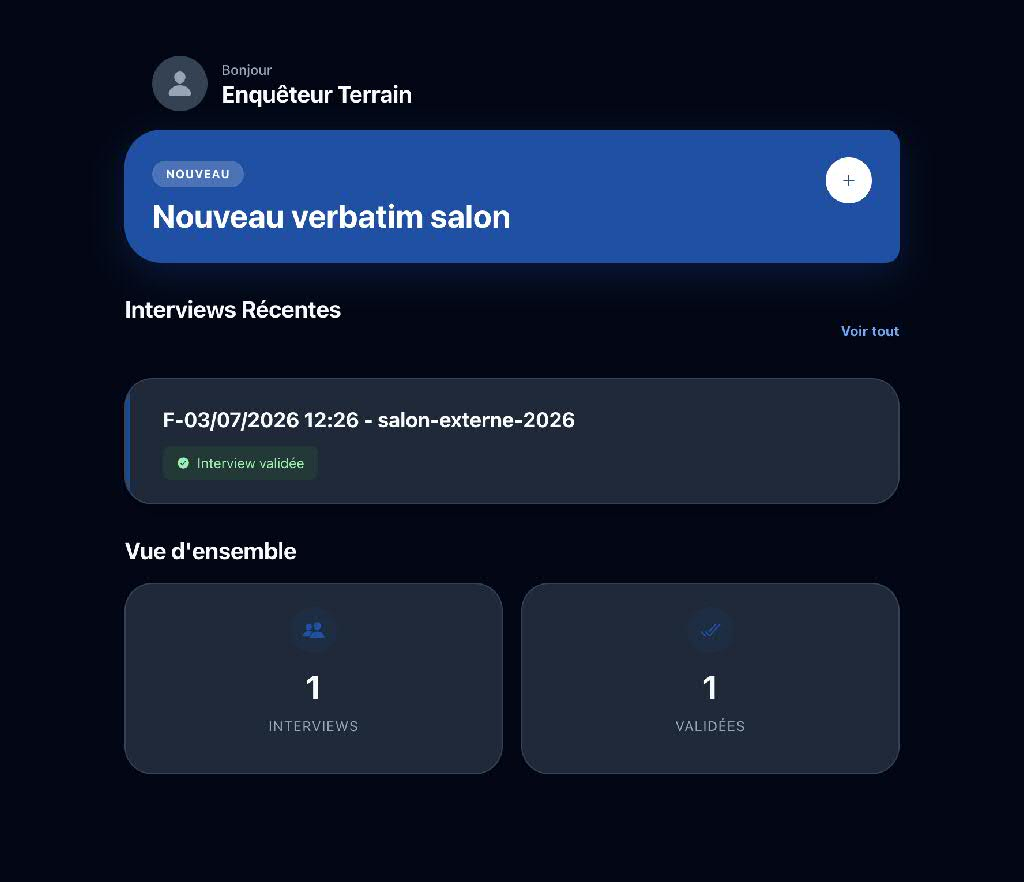
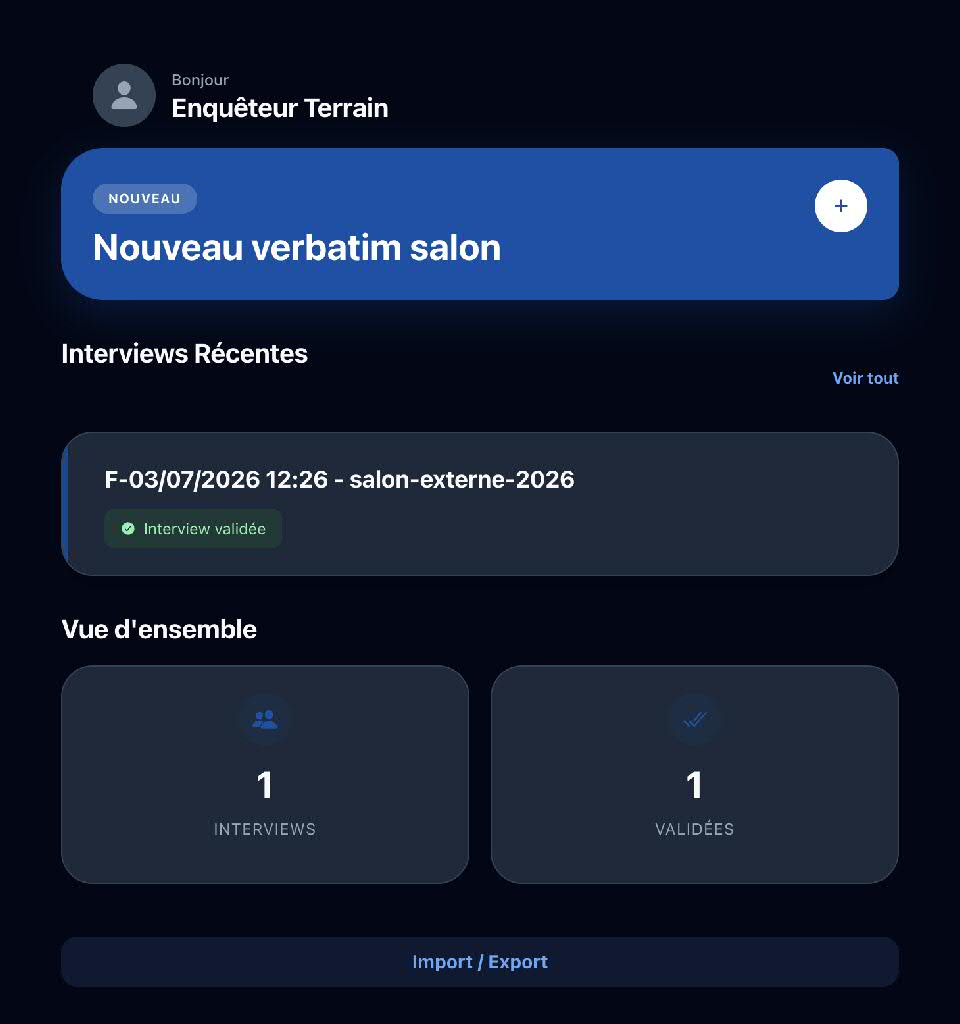
chore: sync docs Studio, connecteur FullSync et vignette projet

diff --git a/project.md b/project.md
@@ -31,12 +31,12 @@ Placeholder transaction that intentionally cancels execution
 </p></blockquote></details>
 </p></blockquote></details>
 
-<details><summary><b>voxurssaf</b> : Connecteur SQL interviews événement (HSQLDB dev — base voxurssaf_v2)</summary><blockquote><p>
+<details><summary><b>voxurssaf</b> : Connecteur SQL interviews événement (Postgres Docker — voxurssaf_v2 @ localhost:5435)</summary><blockquote><p>
 
 
 ## ![](https://github.com/convertigo/convertigo/blob/develop/engine/src/com/twinsoft/convertigo/beans/connectors/images/sqlconnector_color_16x16.png?raw=true "SqlConnector") voxurssaf
 
-Connecteur SQL interviews événement (HSQLDB dev — base voxurssaf_v2)
+Connecteur SQL interviews événement (Postgres Docker — voxurssaf_v2 @ localhost:5435)
 
 <details><summary><span style="color:DarkGoldenRod"><i>Transactions</i></span></summary><blockquote><p>
 
@@ -695,6 +695,14 @@ Describes the mobile application global properties
 Liste complète des interviews — voxUrssafReact allInterviews
 </p></blockquote></details>
 
+<details><summary><b>InterviewDataIO</b> : Import / Export - JSON CSV et publication SQL</summary><blockquote><p>
+
+
+### ![](https://github.com/convertigo/convertigo/blob/develop/engine/src/com/twinsoft/convertigo/beans/ngx/components/images/pagecomponent_color_16x16.png?raw=true "PageComponent") InterviewDataIO
+
+Import / Export - JSON CSV et publication SQL
+</p></blockquote></details>
+
 <details><summary><b>InterviewRecap</b> : Récapitulatif lecture seule — fiche salon validée ou synchronisée</summary><blockquote><p>
 
 
@@ -711,12 +719,12 @@ Récapitulatif lecture seule — fiche salon validée ou synchronisée
 Wizard salon — étape 1/4 code fiche
 </p></blockquote></details>
 
-<details><summary><b>InterviewStep2</b> : Wizard salon — étape 2/4 parcours, satisfaction, verbatim + dictée</summary><blockquote><p>
+<details><summary><b>InterviewStep2</b> : Wizard salon — étape 2/5 parcours, ressenti par sous-étape (smileys)</summary><blockquote><p>
 
 
 ### ![](https://github.com/convertigo/convertigo/blob/develop/engine/src/com/twinsoft/convertigo/beans/ngx/components/images/pagecomponent_color_16x16.png?raw=true "PageComponent") InterviewStep2
 
-Wizard salon — étape 2/4 parcours, satisfaction, verbatim + dictée
+Wizard salon — étape 2/5 parcours, ressenti par sous-étape (smileys)
 </p></blockquote></details>
 
 <details><summary><b>InterviewStep3</b> : Wizard salon — étape 3/4 profil usager</summary><blockquote><p>
